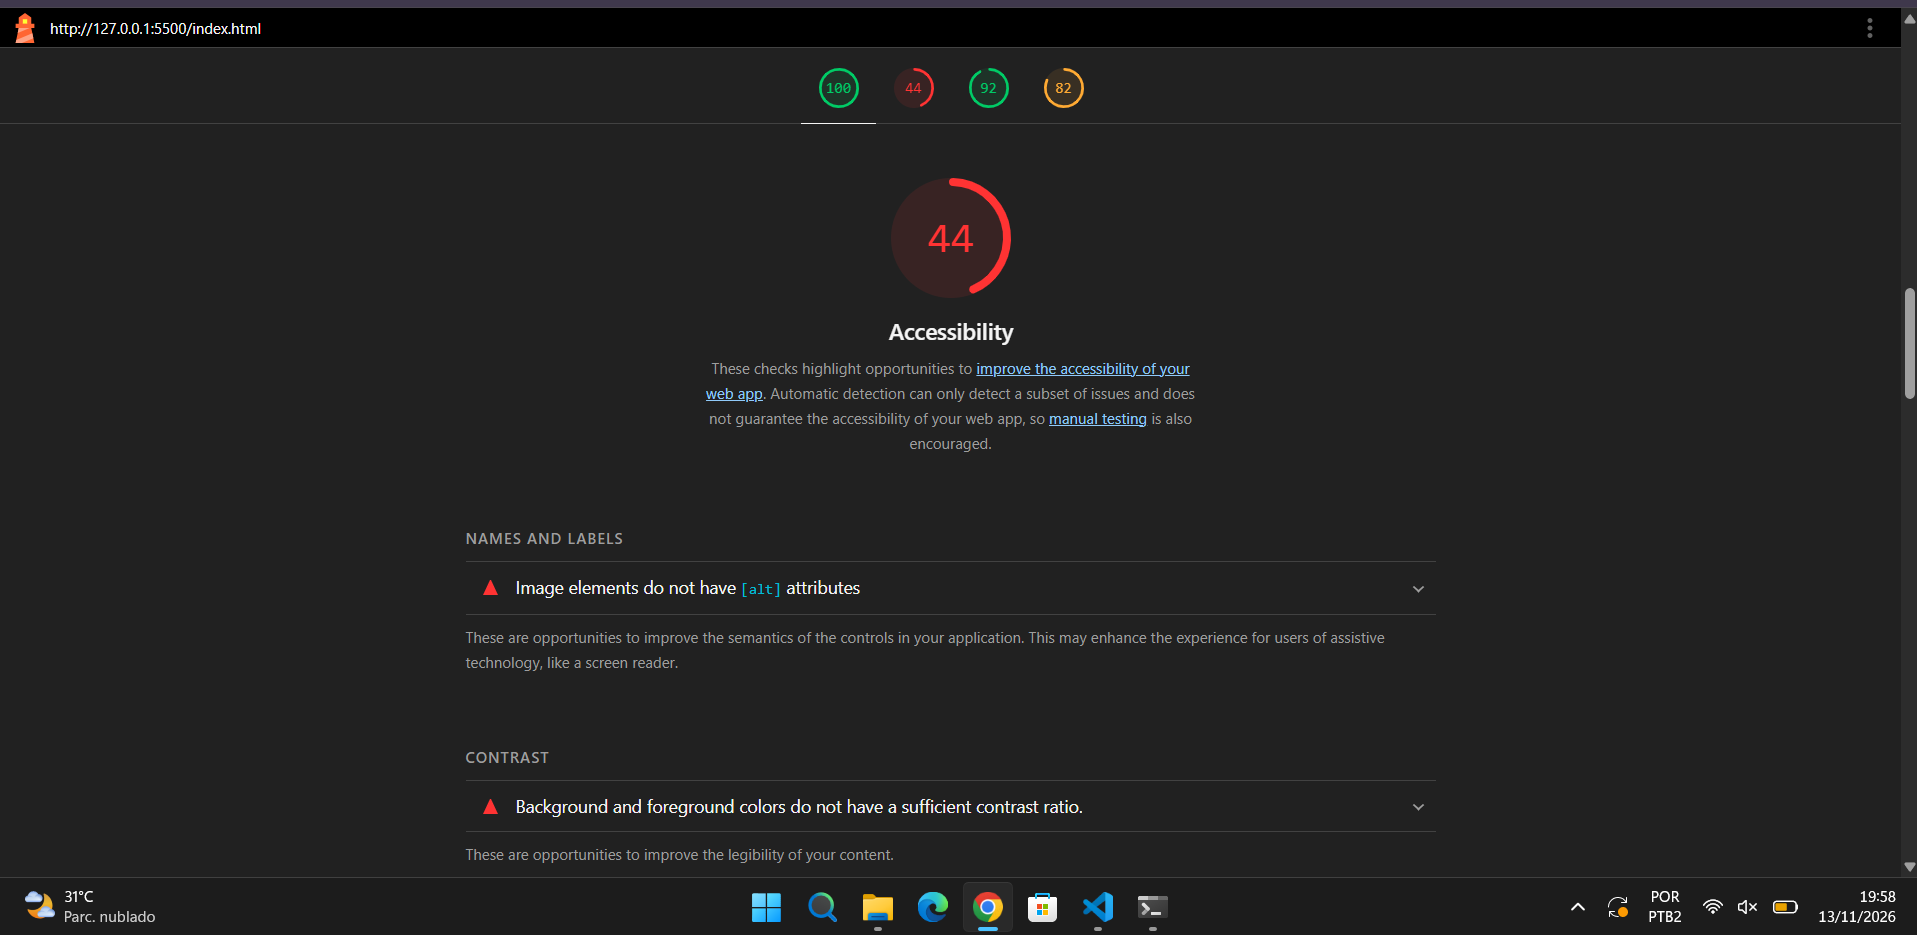
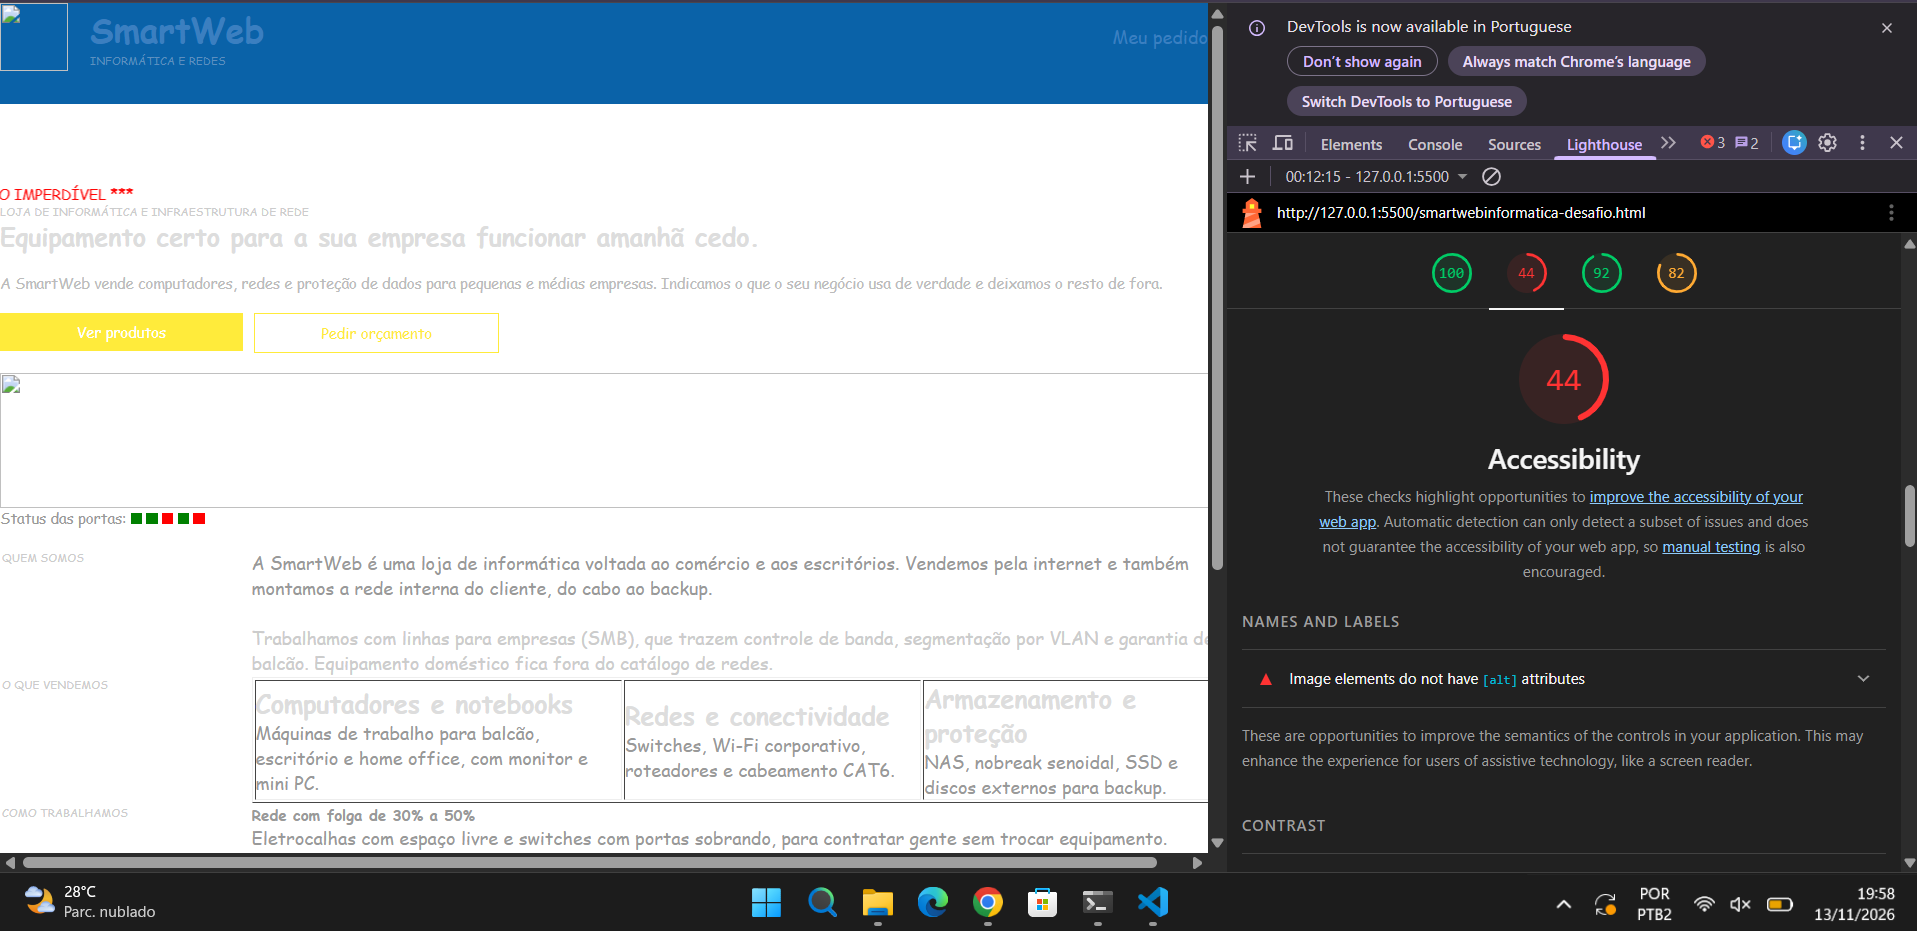
docs: registrar evidencias de diagnostico inicial

diff --git a/DIARIO.md b/DIARIO.md
@@ -63,7 +63,9 @@ Situação: Problemas identificados e ainda não corrigidos nesta etapa.
 
 Meta: Alcançar pelo menos 90 pontos em acessibilidade, conforme exigência do roteiro.
 
-Evidência: Captura de tela do Lighthouse realizada em 13/11/2026.
+Evidência: 
+Captura de tela do Lighthouse realizada em 13/11/2026.
+- evidencias/antes/Lighthouse-antes.png
 
 Responsável pelo registro: Giulia Batista
 
@@ -109,7 +111,7 @@ apenas o teclado, conforme as orientações do roteiro.
 
 Situação: Problema identificado, ainda não corrigido. 
 
-Responsável pelo registro:Giulia Batista
+Responsável pelo registro: Giulia Batista
 
 ### Problema 02 — Acesso a índice inexistente durante a montagem do catálogo
 
@@ -157,9 +159,24 @@ Essa correção resolve o limite inadequado do laço, mas não garante, isoladam
 
 **Commit previsto:** `fix: corrigir limite do laco do catalogo`
 
+### Validação HTML pelo W3C
+
+Data: 15/11/2026
+
+Foi realizada a validação do código HTML da versão original do projeto por meio do W3C Markup Validation Service, com o objetivo de identificar problemas na estrutura e na marcação do documento.
+O resultado apresentou **23 erros e 23 avisos**, incluindo problemas como ausência da declaração DOCTYPE, imagens sem atributo `alt`, utilização de elementos e atributos obsoletos, identificadores duplicados e problemas na hierarquia dos títulos.
+Os resultados foram registrados por meio de uma captura de tela, utilizada como evidência do estado inicial do código.
+
+**Evidência:**
+- evidencias/antes/validacao-w3c-original-antes.png — resultado da validação HTML da versão original.
+
+Situação: Problema identificado, ainda não corrigido. 
+
+Responsável pelo registro: Giulia Batista
+
 Diagnóstico geral dos problemas do site
 
-data:17/11/2026 
+Data: 17/11/2026
 
 Ao analisar o arquivo `smartwebinformatica-desafio.html`, a equipe percebeu que os problemas se espalham por todas as camadas do projeto: o JavaScript quebra ao carregar a página, a estrutura HTML ignora a semântica e as regras de acessibilidade, e o CSS é rígido, não responsivo e com baixo contraste. Para organizar o trabalho, os problemas foram divididos por categoria (JavaScript, HTML, CSS e Acessibilidade, seguindo a classificação do roteiro) e distribuídos entre os integrantes por área de responsabilidade. Dentro do JavaScript, a minha parte ficou com os erros de sintaxe e variáveis, o carregamento do catálogo, a busca de produtos, os filtros por linha e a organização dos dados dos produtos. Cada problema foi registrado no Diário de Bordo com sintoma, causa, seção da apostila e commit próprio.
 
